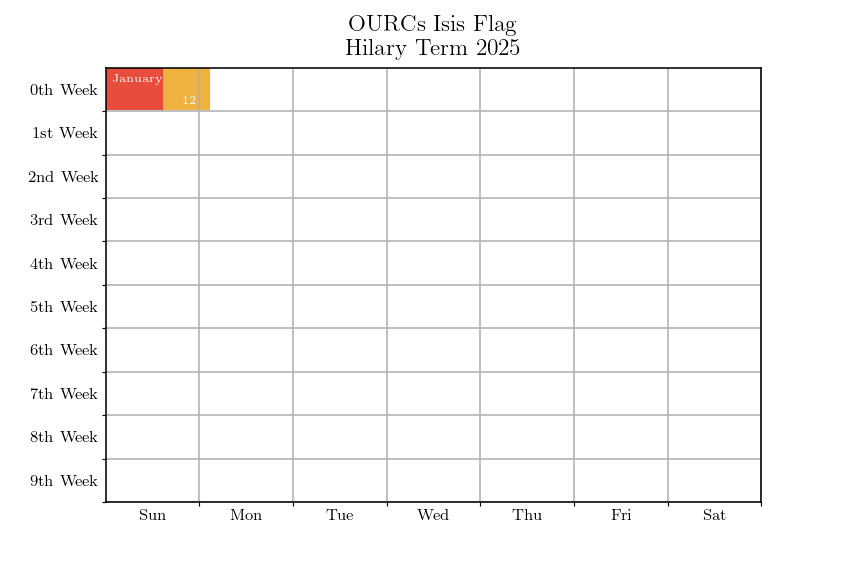
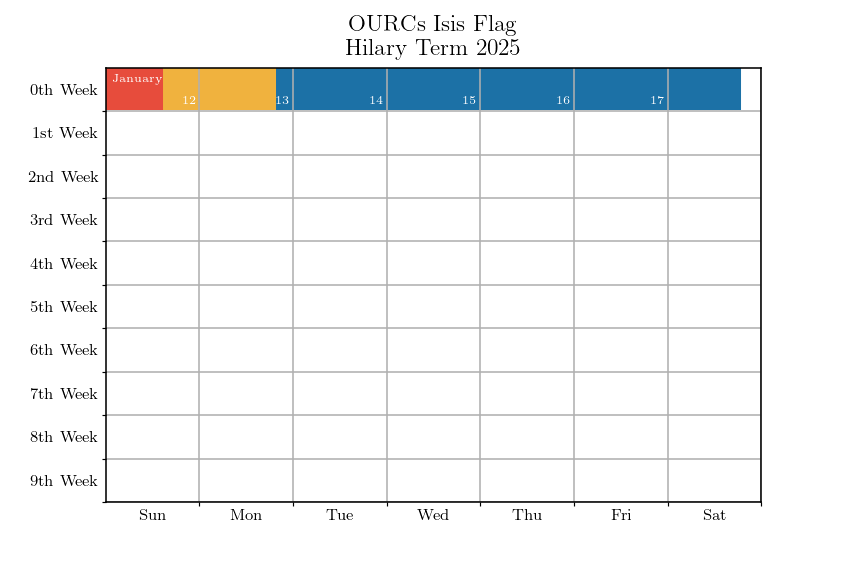
Updated Isis Flag page

Changed region(s): [[0.2459, 0.1206, 0.8913, 0.211]]

diff --git a/rowing/isis_flag_history.html b/rowing/isis_flag_history.html
@@ -360,7 +360,7 @@ display: none;
 <h3 class="tabset">2025</h3>
 <div id="hilary" class="section level4 tabset">
 <h4 class="tabset">Hilary</h4>
[2 lines of base64/hex data omitted]
 <p>Percentage of Peak Term* - so far - under each flag:</p>
 <table>
 <thead>
@@ -384,7 +384,7 @@ display: none;
 </tr>
 <tr class="even">
 <td>Dark Blue</td>
-<td align="center">0</td>
+<td align="center">100.0</td>
 </tr>
 <tr class="odd">
 <td>Light Blue</td>
@@ -684,8 +684,7 @@ display: none;
 <div id="links" class="section level2">
 <h2>Links</h2>
 <ul>
-<li>OURCs’s <a href="https://ourcs.co.uk/information/flags/isis/">Isis
-Flag Page</a></li>
+<li>OURCs’s <a href="https://ourcs.co.uk/information/flags/isis/">Flags</a></li>
 <li>Anu Dudhia’s <a href="https://eodg.atm.ox.ac.uk/user/dudhia/rowing/river.html">Isis
 Level</a></li>
 <li>Jameson Lee and Joe Hitchen’s <a href="https://flags.jamesonlee.com/">Isis Flag Differential</a></li>
@@ -693,7 +692,7 @@ Level</a></li>
 lock</a> at Iffley</li>
 </ul>
 <p><br></p>
-<p><em>Last updated: 2025-01-13 02:14</em></p>
+<p><em>Last updated: 2025-01-18 18:40</em></p>
 </div>
 
 
